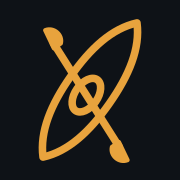
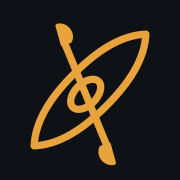
Icône du site : kayak incliné à 45°
Claude-Session: https://claude.ai/code/session_01NnnKUv556R5d6bXpKibHM3

Changed region(s): [[0.1667, 0.0833, 0.8333, 0.9167], [0.5, 0.5278, 0.5278, 0.5556]]

diff --git a/site/index.html b/site/index.html
@@ -9,9 +9,9 @@
 <meta name="referrer" content="strict-origin-when-cross-origin">
 <meta name="theme-color" content="#0e1217">
 <link rel="manifest" href="manifest.webmanifest">
-<link rel="icon" href="kayak.svg" type="image/svg+xml">
-<link rel="icon" href="kayak-32.png" type="image/png" sizes="32x32">
-<link rel="apple-touch-icon" href="kayak-180.png">
+<link rel="icon" href="kayak.svg?v=45" type="image/svg+xml">
+<link rel="icon" href="kayak-32.png?v=45" type="image/png" sizes="32x32">
+<link rel="apple-touch-icon" href="kayak-180.png?v=45">
 <link rel="stylesheet" href="https://cdnjs.cloudflare.com/ajax/libs/maplibre-gl/5.12.0/maplibre-gl.min.css">
 <style>
 /* Charte reprise de GPX 3D : interface sombre en verre, accent orange « balise de sentier », eau en turquoise */

diff --git a/site/sw.js b/site/sw.js
@@ -1,5 +1,5 @@
 // Fichiers du site : réseau d'abord, copie en cache pour le hors-ligne. Tuiles et bibliothèques externes : non gérées.
-const C = 'kayak-v21';
+const C = 'kayak-v22';
 self.addEventListener('install', e => { self.skipWaiting(); e.waitUntil(caches.open(C).then(c => c.addAll(['./', 'index.html', 'manifest.webmanifest', 'kayak.svg', 'logo.svg']))); });
 self.addEventListener('activate', e => e.waitUntil(caches.keys().then(k => Promise.all(k.filter(x => x !== C).map(x => caches.delete(x)))).then(() => self.clients.claim())));
 self.addEventListener('fetch', e => {
